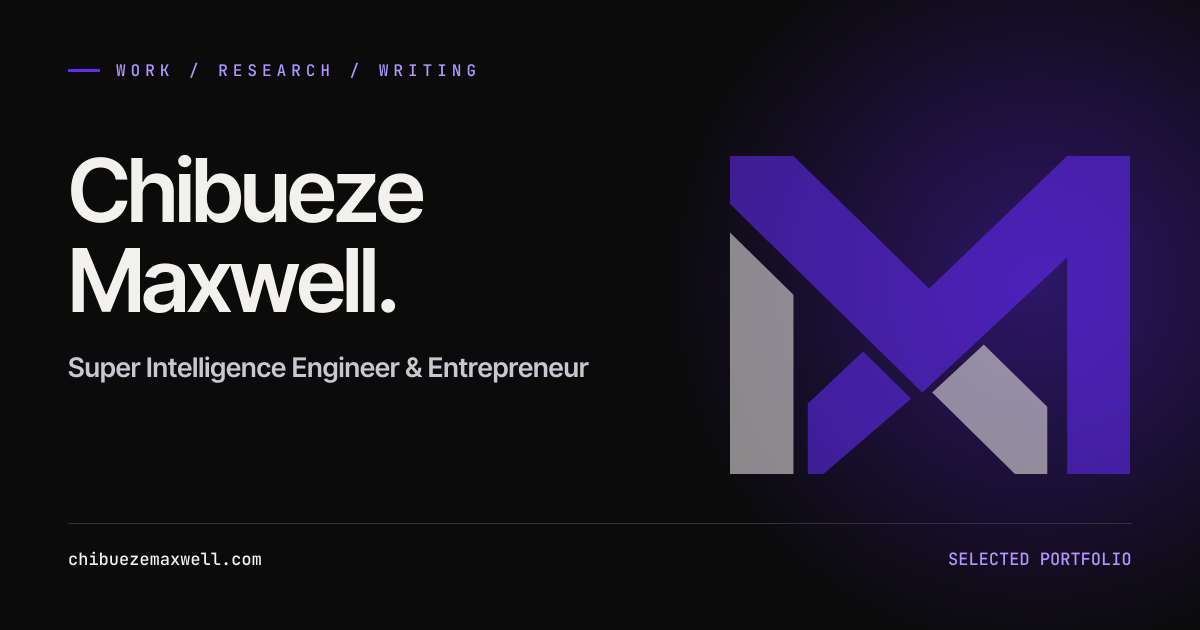
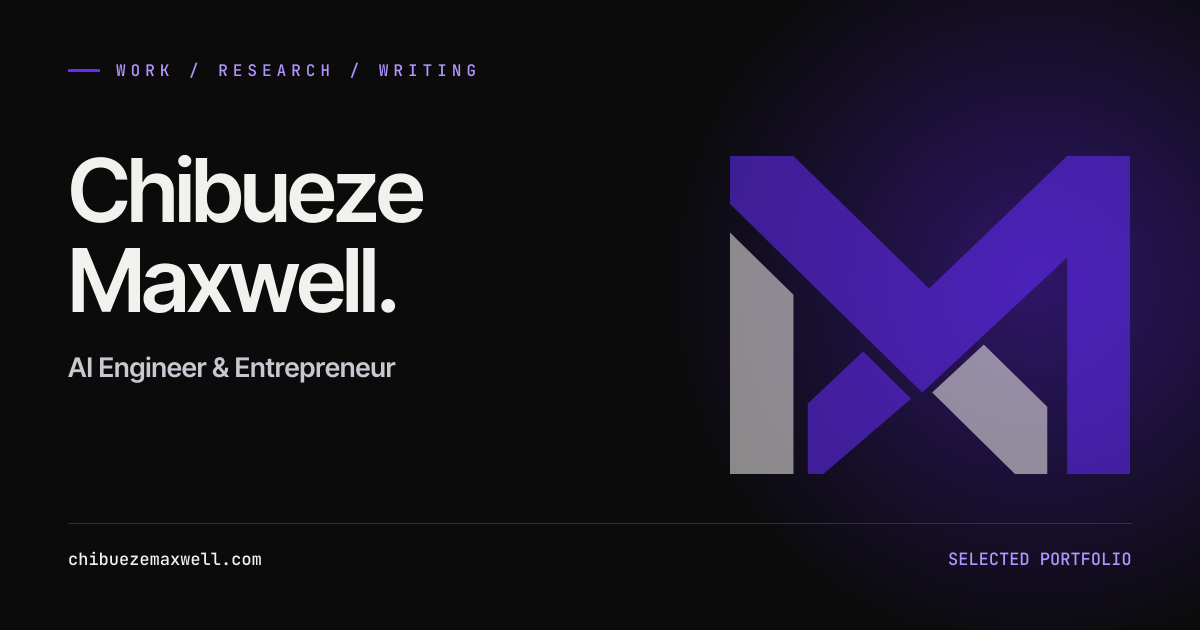
Describe the owner as an AI Engineer everywhere
/work, /research and /writing called the owner a "Super Intelligence
Engineer" while the home page, About page and Person entity said "AI
Engineer". Unify on AI Engineer: the three section descriptions, the
home social card's alt text, the default share image (regenerated with
npm run generate:social-preview), and the site description fallback.

Claude-Session: https://claude.ai/code/session_0182t3iisMxkocjBVbQhvtP5

Changed region(s): [[0.0617, 0.5429, 0.4933, 0.6032]]

diff --git a/src/app/opengraph-image.tsx b/src/app/opengraph-image.tsx
@@ -4,7 +4,7 @@ import { join } from "node:path";
 export const size = { width: 1200, height: 630 };
 export const contentType = "image/png";
 export const alt =
-  "Chibueze Maxwell — Super Intelligence Engineer & Entrepreneur. Work, research and writing.";
+  "Chibueze Maxwell — AI Engineer & Entrepreneur. Work, research and writing.";
 
 // Build once: social crawlers never wait on database, font or image services.
 export const dynamic = "force-static";

diff --git a/src/server/repositories/settings.ts b/src/server/repositories/settings.ts
@@ -47,8 +47,7 @@ export async function upsertSiteSettings(
     .values({
       id: 1,
       siteName: data.siteName ?? "CHIBUEZE MAXWELL",
-      siteDescription:
-        data.siteDescription ?? "Super Intelligence Engineer & Entrepreneur",
+      siteDescription: data.siteDescription ?? "AI Engineer & Entrepreneur",
       primaryEmail: data.primaryEmail ?? null,
       socialGithub: data.socialGithub ?? null,
       socialX: data.socialX ?? null,

diff --git a/src/app/research/page.tsx b/src/app/research/page.tsx
@@ -17,7 +17,7 @@ export const revalidate = 0;
 
 const TITLE = "Research";
 const DESCRIPTION =
-  "Super Intelligence Engineer & Entrepreneur. Investigations, technical notes, and experiments, documented with verifiable evidence.";
+  "AI Engineer & Entrepreneur. Investigations, technical notes, and experiments, documented with verifiable evidence.";
 
 const METADATA: Metadata = constructPageMetadata({
   title: TITLE,

diff --git a/src/app/work/page.tsx b/src/app/work/page.tsx
@@ -18,7 +18,7 @@ export const revalidate = 0;
 
 const TITLE = "Selected Work";
 const DESCRIPTION =
-  "Super Intelligence Engineer & Entrepreneur. Selected projects, intelligent systems, and engineering case studies.";
+  "AI Engineer & Entrepreneur. Selected projects, intelligent systems, and engineering case studies.";
 
 const METADATA: Metadata = constructPageMetadata({
   title: TITLE,

diff --git a/src/app/writing/page.tsx b/src/app/writing/page.tsx
@@ -18,7 +18,7 @@ export const revalidate = 0;
 
 const TITLE = "Writing";
 const DESCRIPTION =
-  "Super Intelligence Engineer & Entrepreneur. Essays and notes on building intelligent systems.";
+  "AI Engineer & Entrepreneur. Essays and notes on building intelligent systems.";
 
 const METADATA: Metadata = constructPageMetadata({
   title: TITLE,

diff --git a/scripts/generate-social-preview.tsx b/scripts/generate-social-preview.tsx
@@ -84,7 +84,7 @@ async function main() {
           <div>Maxwell.</div>
         </div>
         <div style={{ marginTop: 26, fontSize: 27, color: "#c9c7d0" }}>
-          Super Intelligence Engineer &amp; Entrepreneur
+          AI Engineer &amp; Entrepreneur
         </div>
         <div
           style={{
